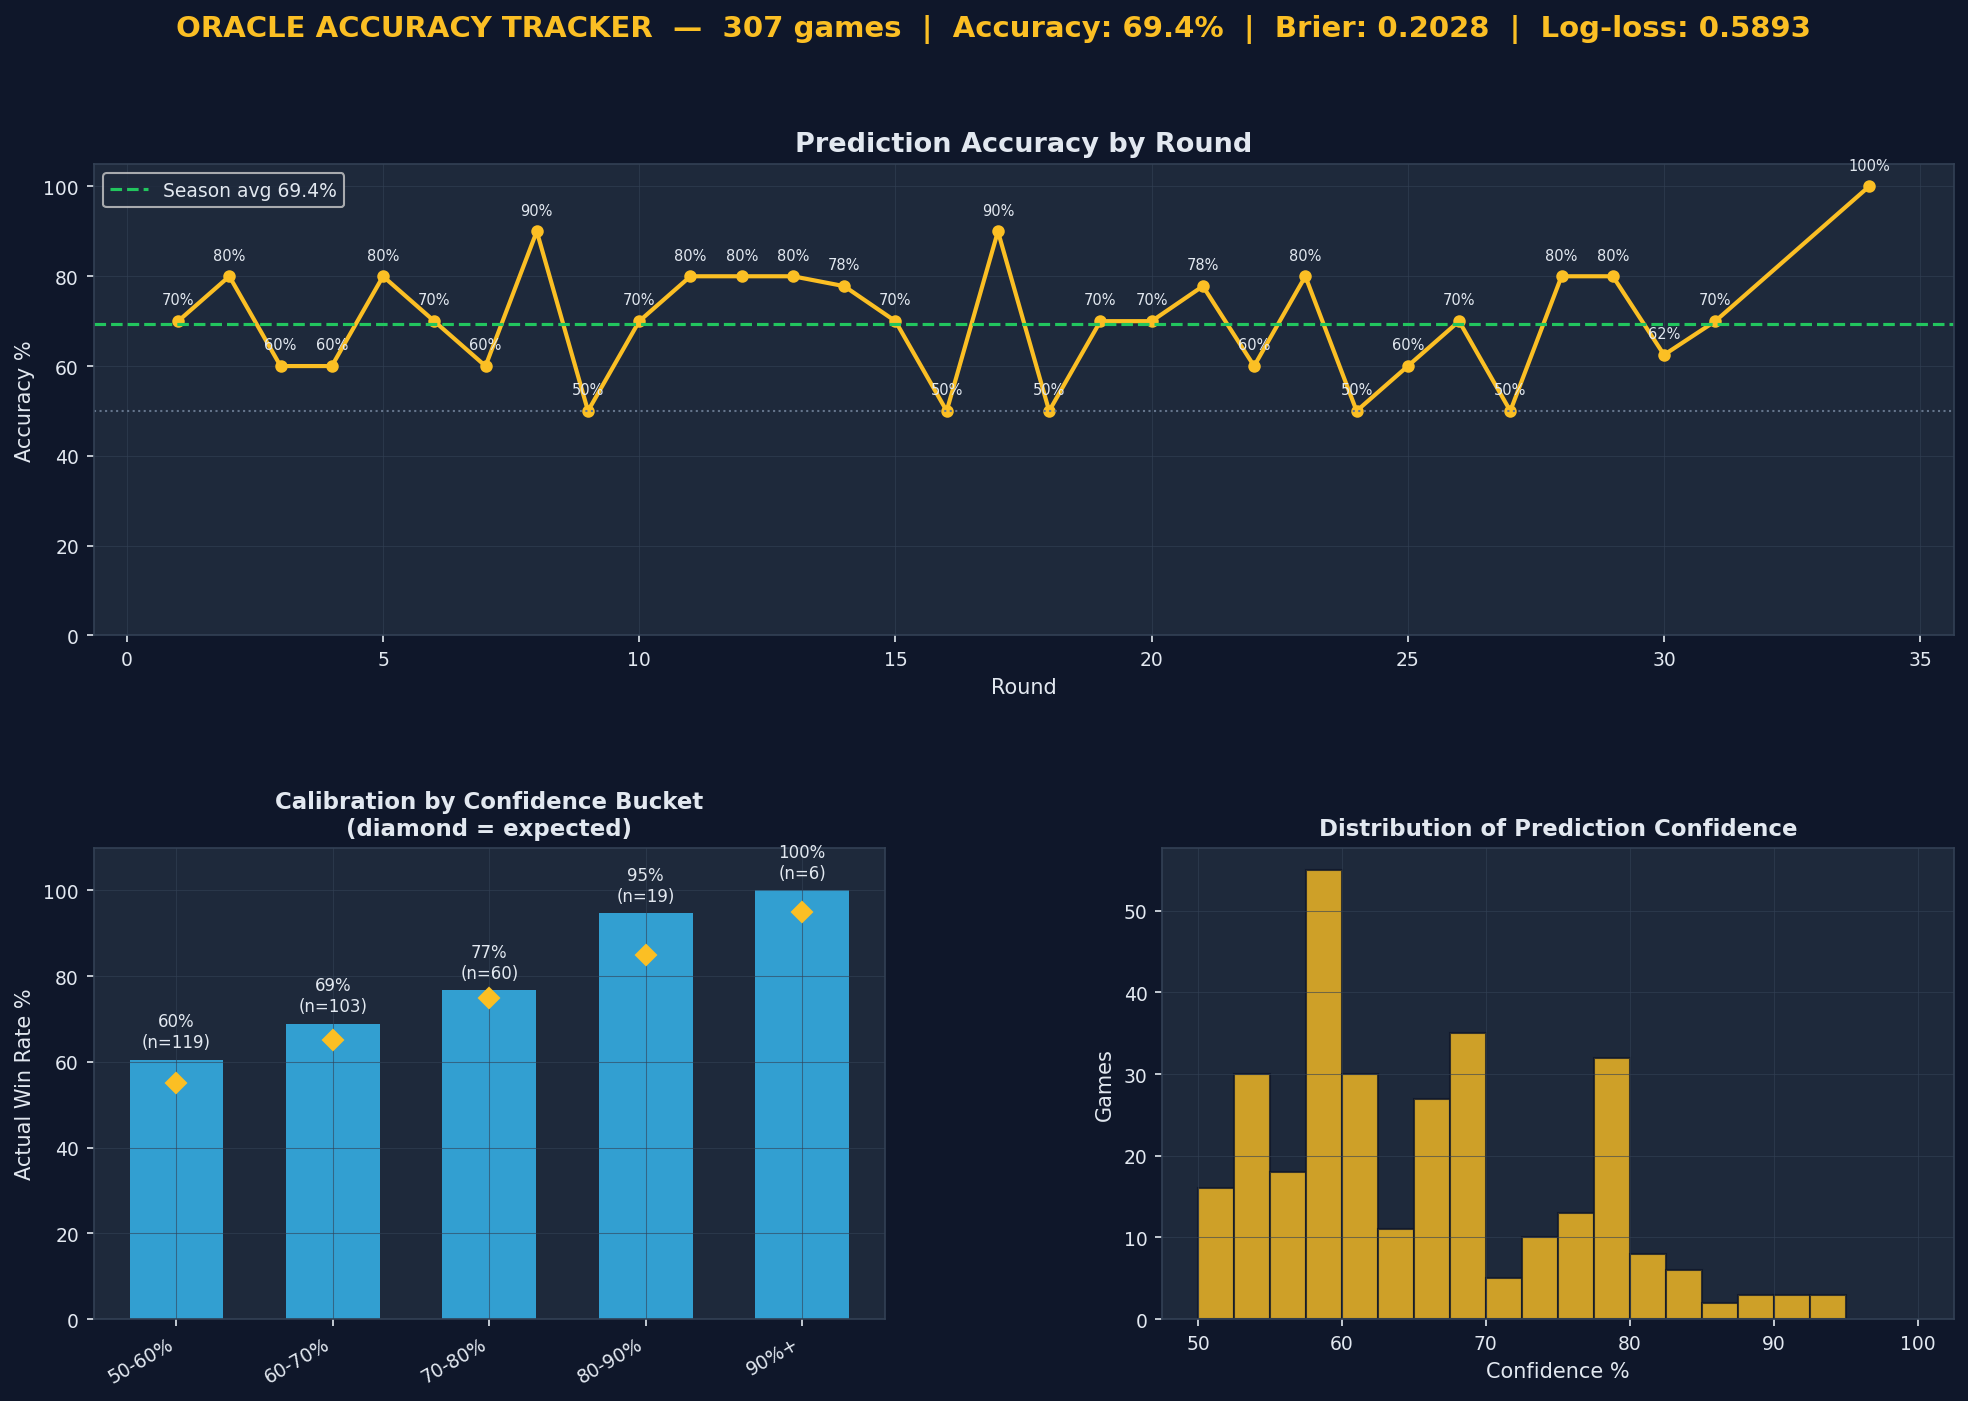
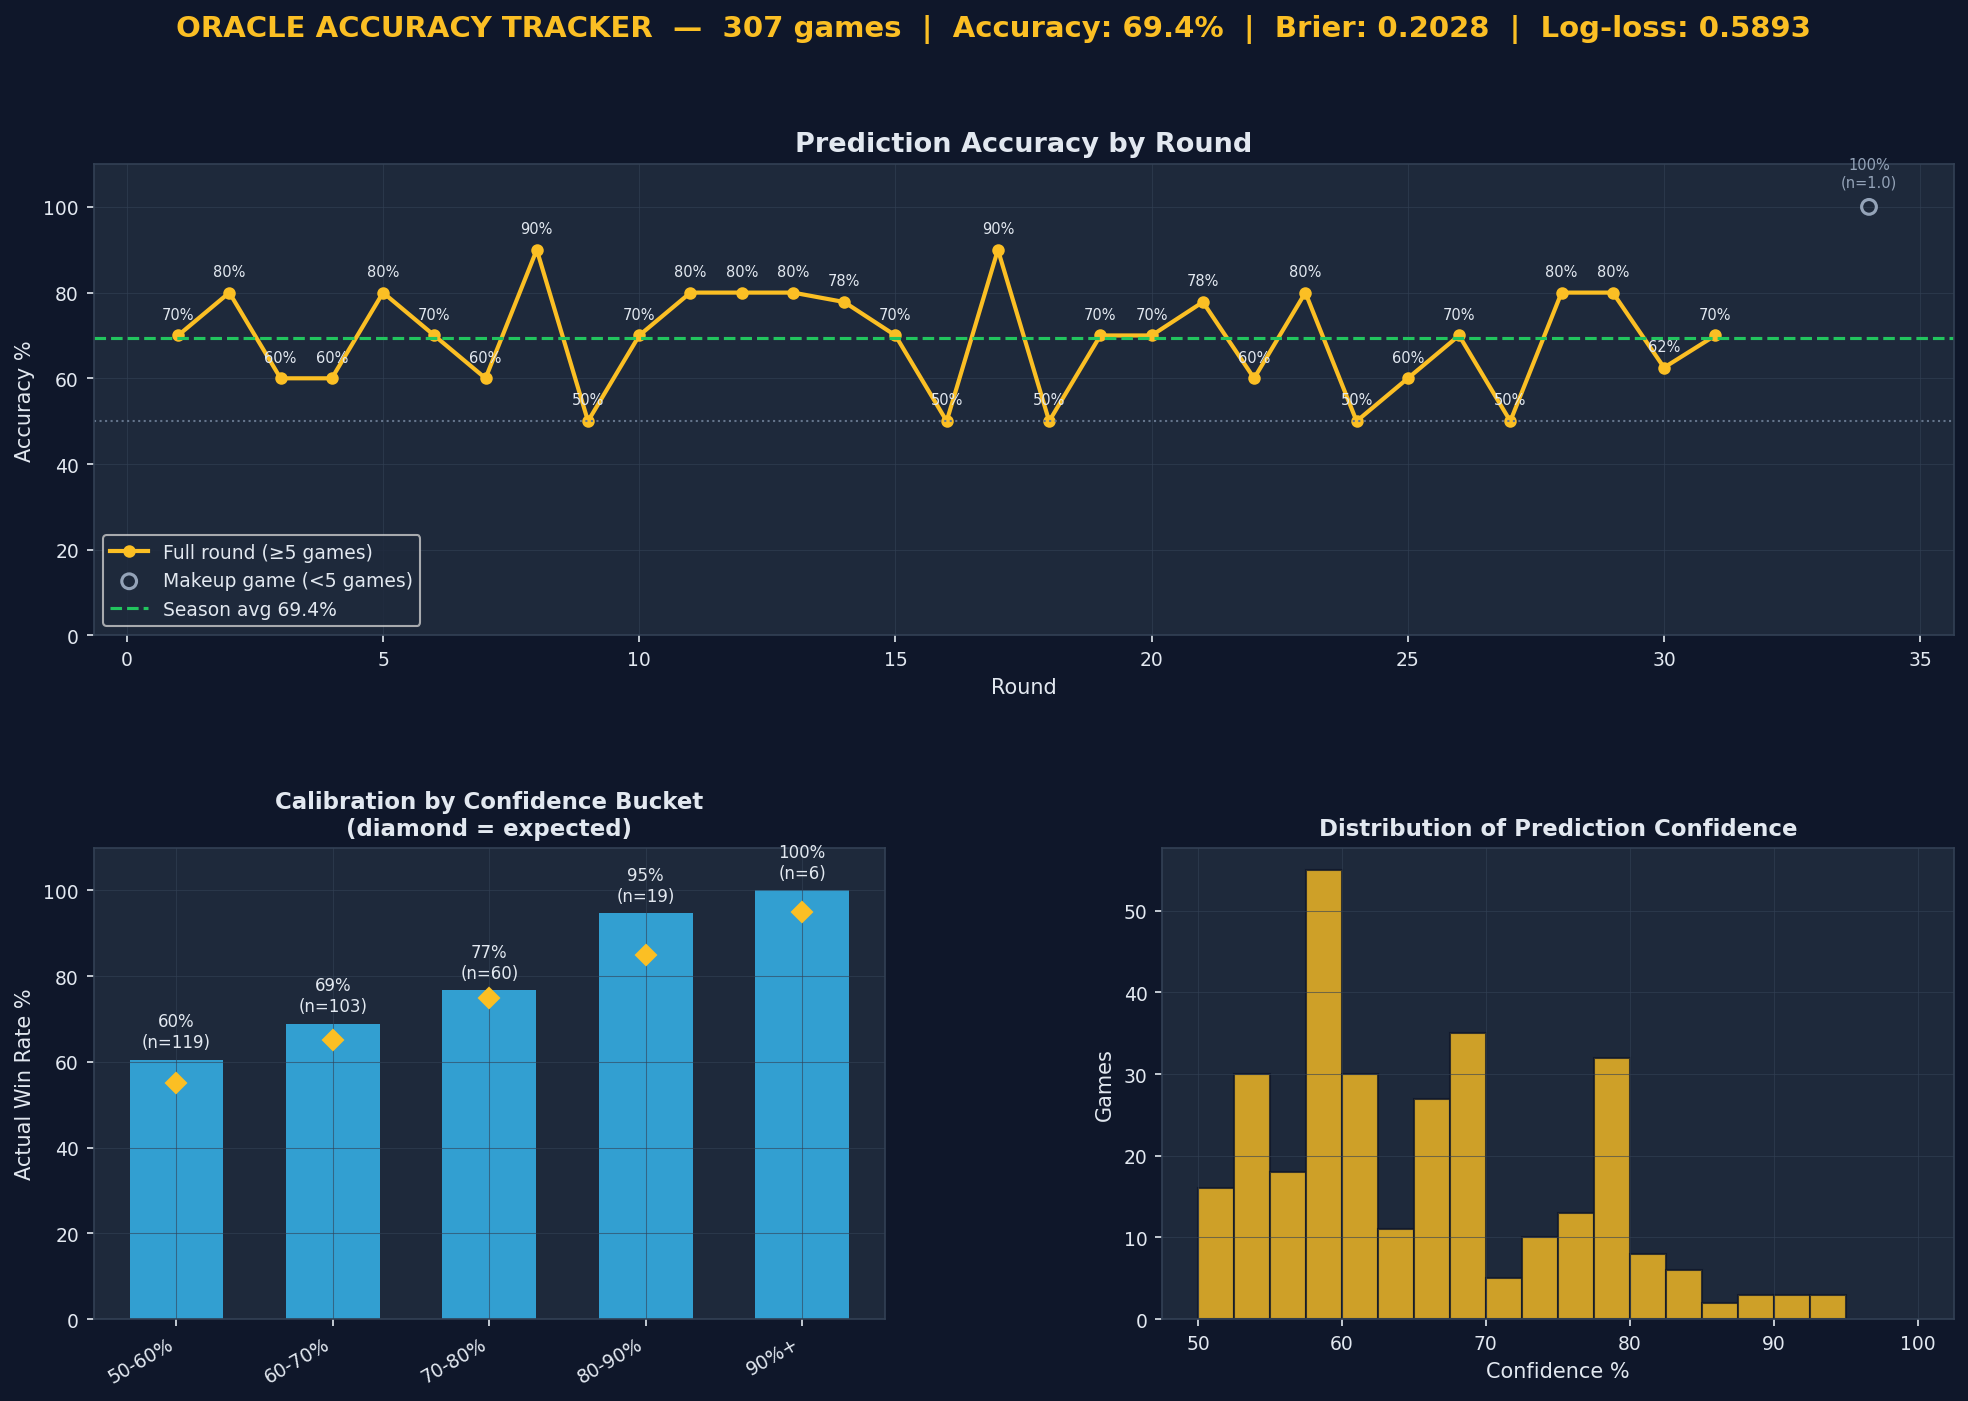
fix(tracker): visually separate makeup games from full rounds in trend chart
Rounds with <5 games (rescheduled/makeup games) are now shown as hollow
grey markers disconnected from the main trend line, with an (n=X) label.
Full rounds drive the connected line so one game can't spike to 100%.

diff --git a/oracle_accuracy_tracker.py b/oracle_accuracy_tracker.py
@@ -282,24 +282,43 @@ def visualize(metrics, records):
         ax.grid(color=grid_color, linewidth=0.5, alpha=0.6)
 
     # ── Top: per-round accuracy trend ────────────────────────────────────────
+    MIN_FULL_ROUND = 5  # rounds with fewer games are makeup/rescheduled games
     if not per_round.empty:
-        ax_trend.plot(per_round['Round'], per_round['Accuracy'],
-                      color=accent, linewidth=2.0, marker='o', markersize=5)
+        full   = per_round[per_round['Games'] >= MIN_FULL_ROUND]
+        makeup = per_round[per_round['Games'] <  MIN_FULL_ROUND]
+
+        # Main trend line through full rounds only
+        ax_trend.plot(full['Round'], full['Accuracy'],
+                      color=accent, linewidth=2.0, marker='o', markersize=5,
+                      label='Full round (≥5 games)')
+        # Makeup games as hollow markers — not connected to the line
+        if not makeup.empty:
+            ax_trend.scatter(makeup['Round'], makeup['Accuracy'],
+                             color='#94a3b8', s=50, marker='o', zorder=5,
+                             linewidths=1.5, facecolors='none',
+                             label='Makeup game (<5 games)')
+
         ax_trend.axhline(metrics['accuracy'], color=green, linewidth=1.5,
                          linestyle='--', label=f"Season avg {metrics['accuracy']}%")
         ax_trend.axhline(50, color='#64748b', linewidth=1.0, linestyle=':')
-        ax_trend.set_ylim(0, 105)
+        ax_trend.set_ylim(0, 110)
         ax_trend.set_xlabel('Round', color=text_color, fontsize=10)
         ax_trend.set_ylabel('Accuracy %', color=text_color, fontsize=10)
         ax_trend.set_title('Prediction Accuracy by Round', color=text_color,
                             fontsize=13, fontweight='bold')
         ax_trend.legend(facecolor='#1e293b', labelcolor=text_color, fontsize=9)
-        # Annotate each point
-        for _, row in per_round.iterrows():
+        # Annotate full rounds
+        for _, row in full.iterrows():
             ax_trend.annotate(f"{row['Accuracy']:.0f}%",
                               (row['Round'], row['Accuracy']),
                               textcoords='offset points', xytext=(0, 8),
                               color=text_color, fontsize=7, ha='center')
+        # Annotate makeup games with game count
+        for _, row in makeup.iterrows():
+            ax_trend.annotate(f"{row['Accuracy']:.0f}%\n(n={row['Games']})",
+                              (row['Round'], row['Accuracy']),
+                              textcoords='offset points', xytext=(0, 10),
+                              color='#94a3b8', fontsize=7, ha='center')
 
     # ── Bottom-left: calibration bar chart ───────────────────────────────────
     if not calibration.empty:
